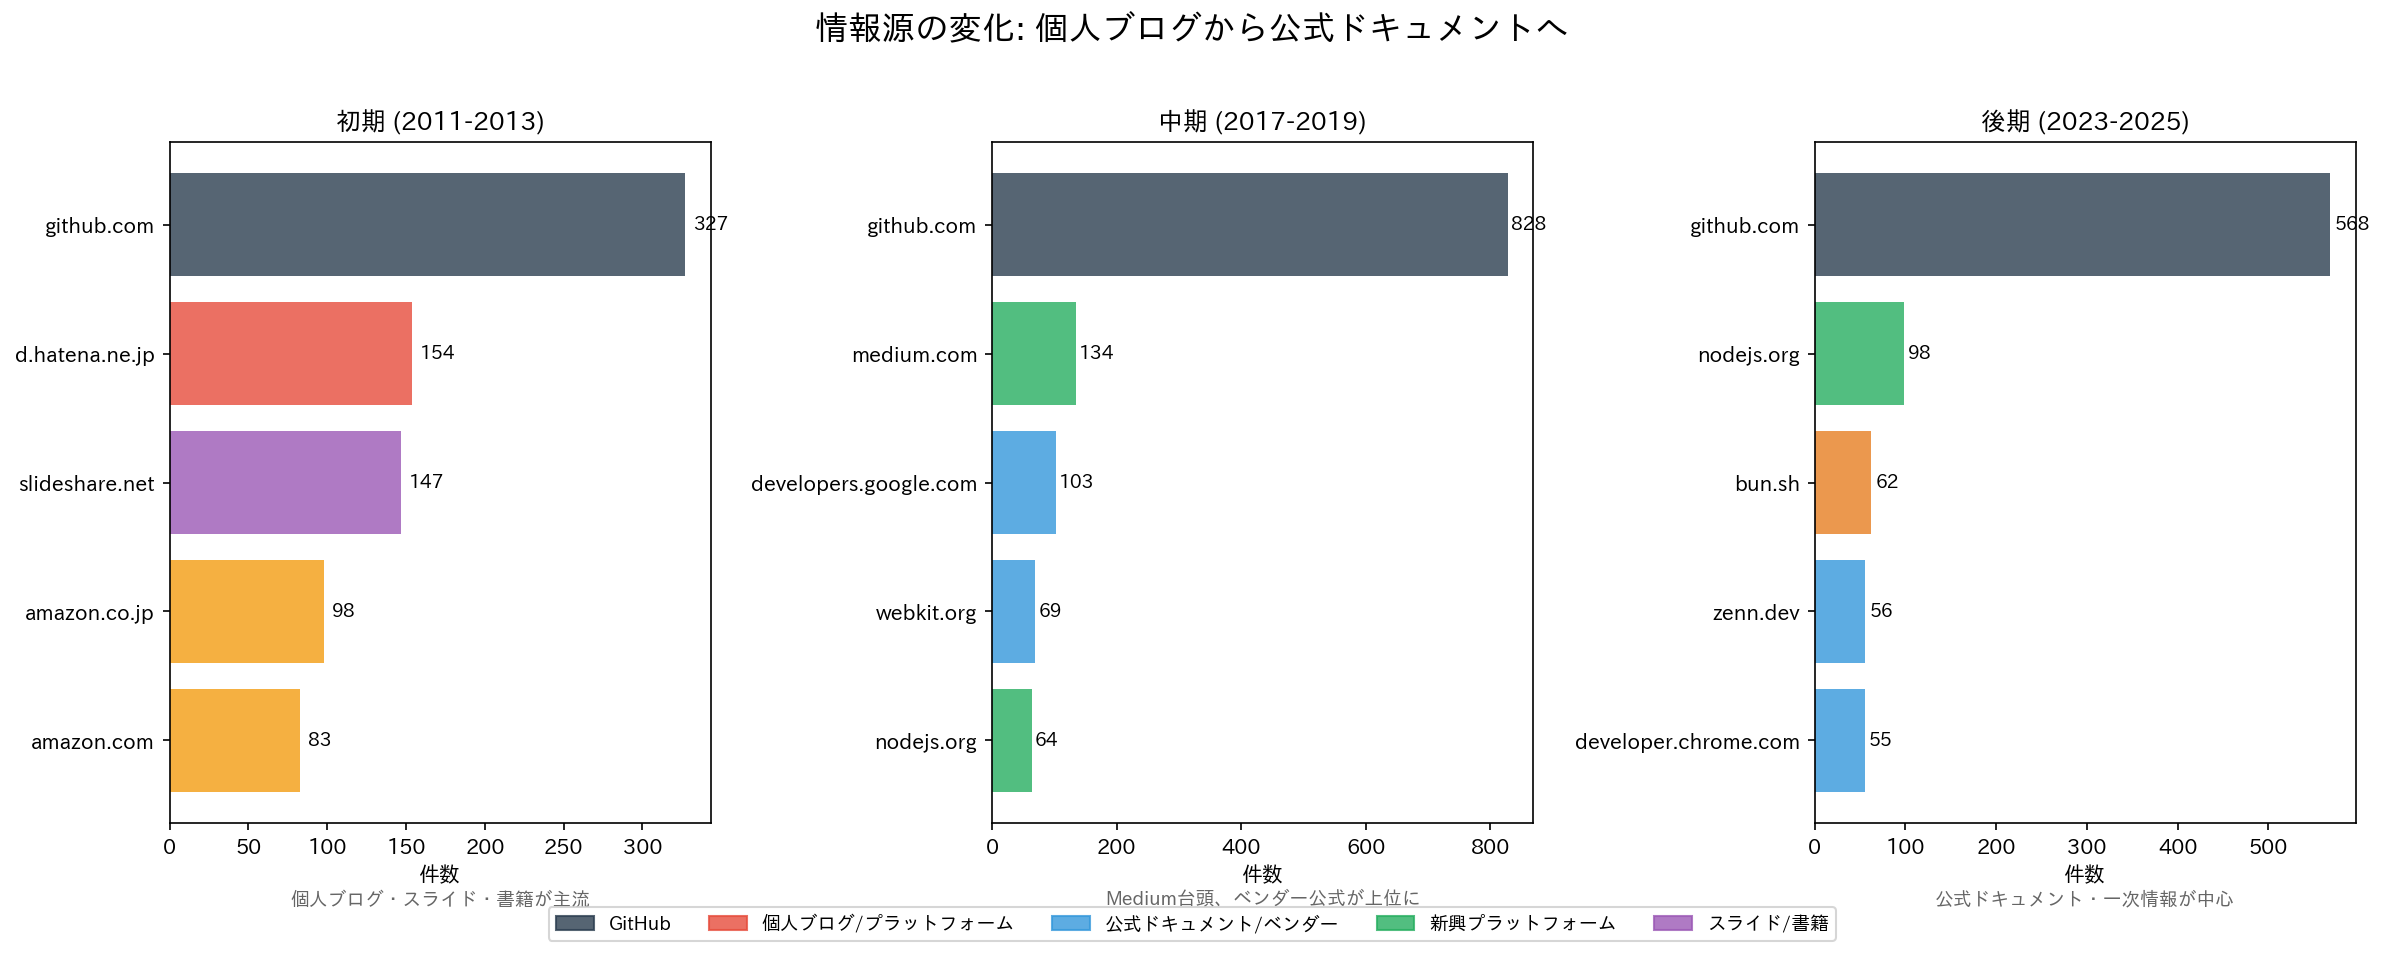
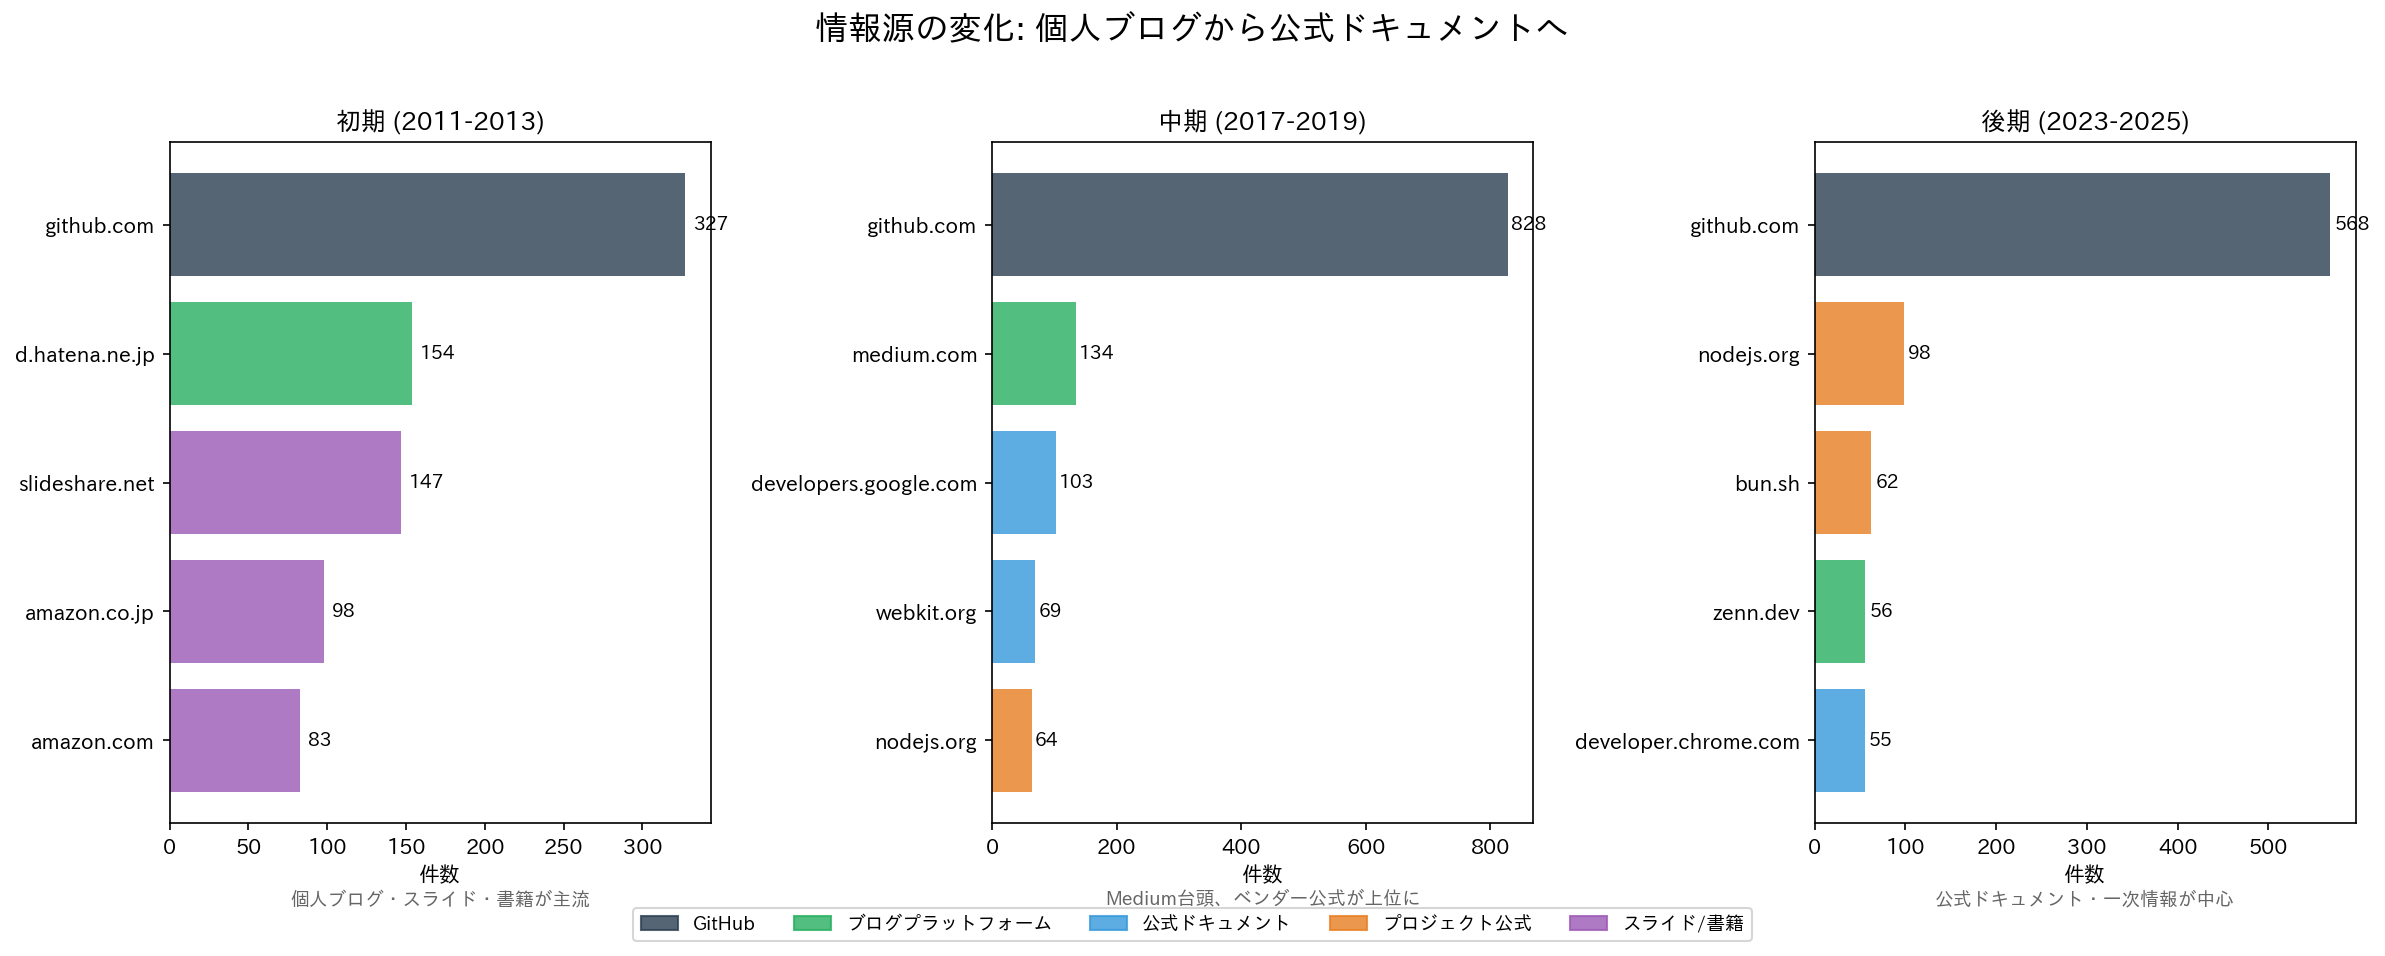
Refactor code structure for improved readability and maintainability

diff --git a/uploads/media/2026/15th/generate_15th_charts.py b/uploads/media/2026/15th/generate_15th_charts.py
@@ -156,17 +156,17 @@ def create_info_sources():
     # 初期
     sources_early = ['github.com', 'd.hatena.ne.jp', 'slideshare.net', 'amazon.co.jp', 'amazon.com']
     values_early = [327, 154, 147, 98, 83]
-    colors_early = ['#2c3e50', '#e74c3c', '#9b59b6', '#f39c12', '#f39c12']
+    colors_early = ['#2c3e50', '#27ae60', '#9b59b6', '#9b59b6', '#9b59b6']
 
     # 中期
     sources_mid = ['github.com', 'medium.com', 'developers.google.com', 'webkit.org', 'nodejs.org']
     values_mid = [828, 134, 103, 69, 64]
-    colors_mid = ['#2c3e50', '#27ae60', '#3498db', '#3498db', '#27ae60']
+    colors_mid = ['#2c3e50', '#27ae60', '#3498db', '#3498db', '#e67e22']
 
     # 後期
     sources_late = ['github.com', 'nodejs.org', 'bun.sh', 'zenn.dev', 'developer.chrome.com']
     values_late = [568, 98, 62, 56, 55]
-    colors_late = ['#2c3e50', '#27ae60', '#e67e22', '#3498db', '#3498db']
+    colors_late = ['#2c3e50', '#e67e22', '#e67e22', '#27ae60', '#3498db']
 
     def create_bar_chart(ax, sources, values, colors, title, period_desc):
         y_pos = np.arange(len(sources))
@@ -193,9 +193,9 @@ def create_info_sources():
 
     category_colors = {
         'GitHub': '#2c3e50',
-        '個人ブログ/プラットフォーム': '#e74c3c',
-        '公式ドキュメント/ベンダー': '#3498db',
-        '新興プラットフォーム': '#27ae60',
+        'ブログプラットフォーム': '#27ae60',
+        '公式ドキュメント': '#3498db',
+        'プロジェクト公式': '#e67e22',
         'スライド/書籍': '#9b59b6',
     }
     legend_patches = [mpatches.Patch(color=v, label=k, alpha=0.8)

diff --git a/uploads/media/2026/15th/generate_15th_charts_ko.py b/uploads/media/2026/15th/generate_15th_charts_ko.py
@@ -163,17 +163,17 @@ def create_info_sources():
     # 초기
     sources_early = ['github.com', 'd.hatena.ne.jp', 'slideshare.net', 'amazon.co.jp', 'amazon.com']
     values_early = [327, 154, 147, 98, 83]
-    colors_early = ['#2c3e50', '#e74c3c', '#9b59b6', '#f39c12', '#f39c12']
+    colors_early = ['#2c3e50', '#27ae60', '#9b59b6', '#9b59b6', '#9b59b6']
 
     # 중기
     sources_mid = ['github.com', 'medium.com', 'developers.google.com', 'webkit.org', 'nodejs.org']
     values_mid = [828, 134, 103, 69, 64]
-    colors_mid = ['#2c3e50', '#27ae60', '#3498db', '#3498db', '#27ae60']
+    colors_mid = ['#2c3e50', '#27ae60', '#3498db', '#3498db', '#e67e22']
 
     # 후기
     sources_late = ['github.com', 'nodejs.org', 'bun.sh', 'zenn.dev', 'developer.chrome.com']
     values_late = [568, 98, 62, 56, 55]
-    colors_late = ['#2c3e50', '#27ae60', '#e67e22', '#3498db', '#3498db']
+    colors_late = ['#2c3e50', '#e67e22', '#e67e22', '#27ae60', '#3498db']
 
     def create_bar_chart(ax, sources, values, colors, title, period_desc):
         y_pos = np.arange(len(sources))
@@ -200,9 +200,9 @@ def create_info_sources():
 
     category_colors = {
         'GitHub': '#2c3e50',
-        '개인 블로그/플랫폼': '#e74c3c',
-        '공식 문서/벤더': '#3498db',
-        '신흥 플랫폼': '#27ae60',
+        '블로그 플랫폼': '#27ae60',
+        '공식 문서': '#3498db',
+        '프로젝트 공식': '#e67e22',
         '슬라이드/서적': '#9b59b6',
     }
     legend_patches = [mpatches.Patch(color=v, label=k, alpha=0.8)

diff --git a/uploads/media/2026/15th/generate_15th_charts_en.py b/uploads/media/2026/15th/generate_15th_charts_en.py
@@ -154,17 +154,17 @@ def create_info_sources():
     # Early
     sources_early = ['github.com', 'd.hatena.ne.jp', 'slideshare.net', 'amazon.co.jp', 'amazon.com']
     values_early = [327, 154, 147, 98, 83]
-    colors_early = ['#2c3e50', '#e74c3c', '#9b59b6', '#f39c12', '#f39c12']
+    colors_early = ['#2c3e50', '#27ae60', '#9b59b6', '#9b59b6', '#9b59b6']
 
     # Mid
     sources_mid = ['github.com', 'medium.com', 'developers.google.com', 'webkit.org', 'nodejs.org']
     values_mid = [828, 134, 103, 69, 64]
-    colors_mid = ['#2c3e50', '#27ae60', '#3498db', '#3498db', '#27ae60']
+    colors_mid = ['#2c3e50', '#27ae60', '#3498db', '#3498db', '#e67e22']
 
     # Late
     sources_late = ['github.com', 'nodejs.org', 'bun.sh', 'zenn.dev', 'developer.chrome.com']
     values_late = [568, 98, 62, 56, 55]
-    colors_late = ['#2c3e50', '#27ae60', '#e67e22', '#3498db', '#3498db']
+    colors_late = ['#2c3e50', '#e67e22', '#e67e22', '#27ae60', '#3498db']
 
     def create_bar_chart(ax, sources, values, colors, title, period_desc):
         y_pos = np.arange(len(sources))
@@ -191,9 +191,9 @@ def create_info_sources():
 
     category_colors = {
         'GitHub': '#2c3e50',
-        'Personal Blog/Platform': '#e74c3c',
-        'Official Docs/Vendor': '#3498db',
-        'Emerging Platform': '#27ae60',
+        'Blog Platform': '#27ae60',
+        'Official Docs': '#3498db',
+        'Project Official': '#e67e22',
         'Slides/Books': '#9b59b6',
     }
     legend_patches = [mpatches.Patch(color=v, label=k, alpha=0.8)
